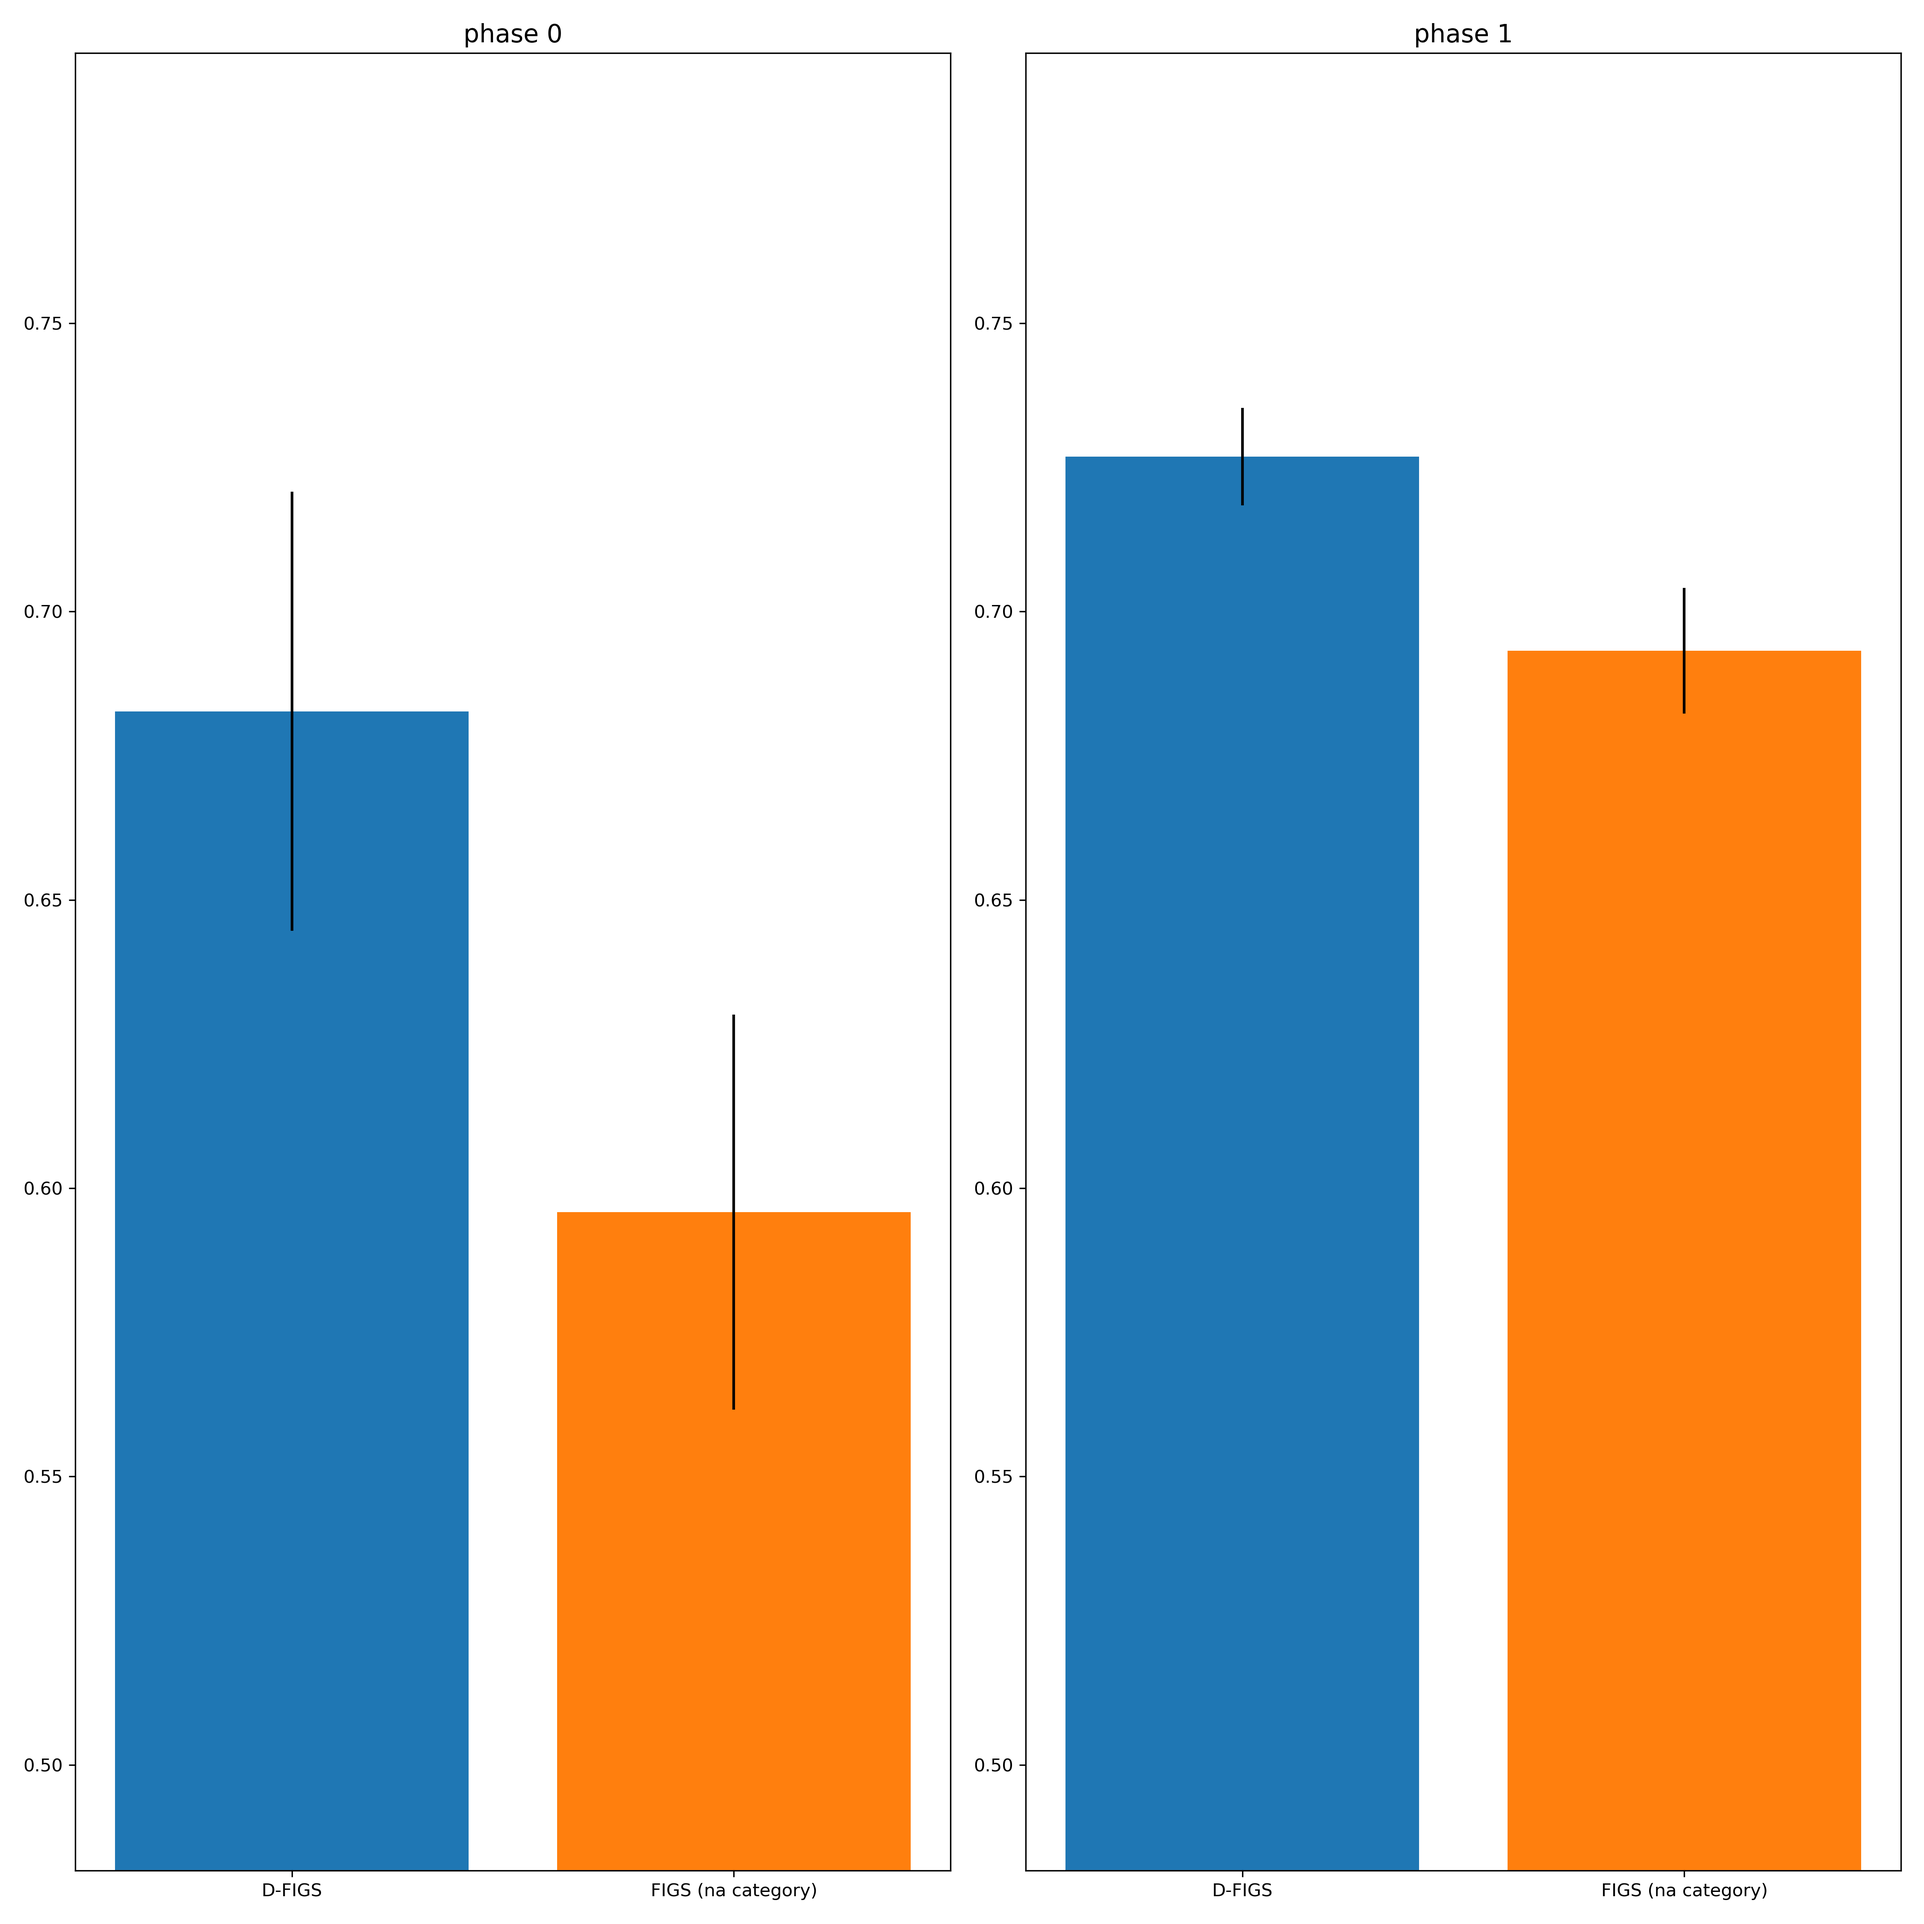
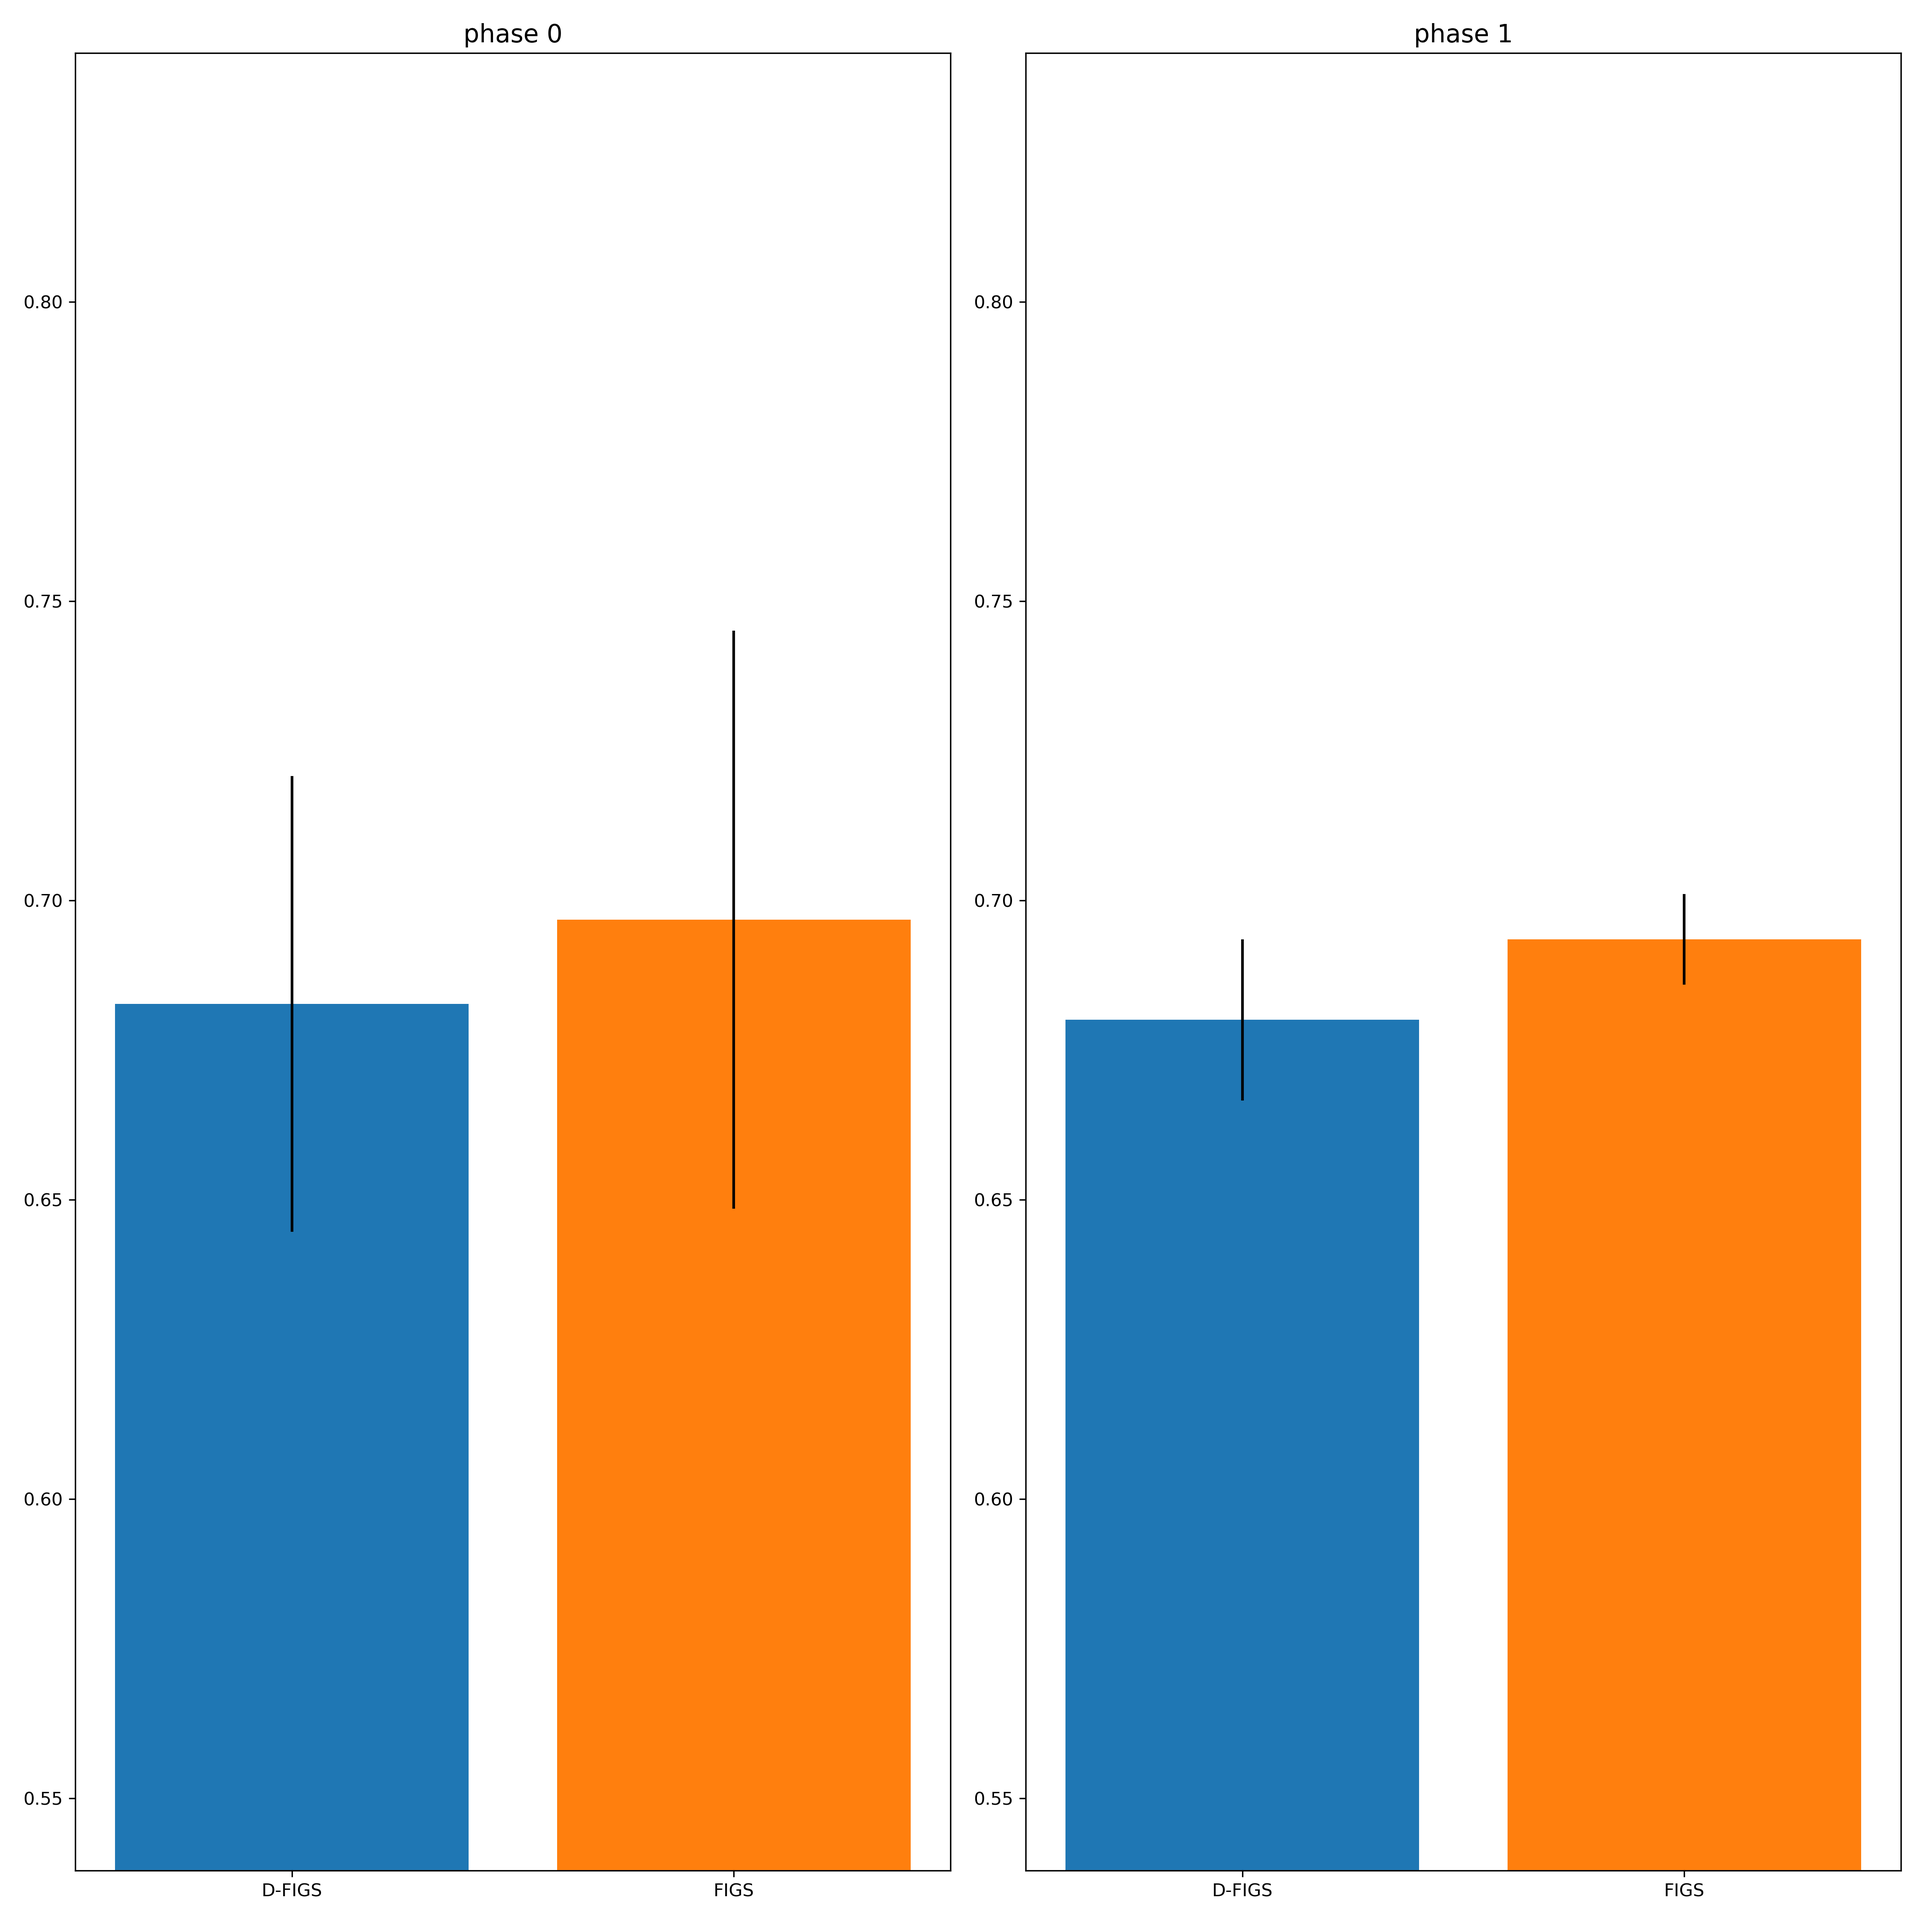
meeting 9.11

diff --git a/rulevetting/projects/backcompat_analysis.py b/rulevetting/projects/backcompat_analysis.py
@@ -1,0 +1,97 @@
+import argparse
+import copy
+import os.path
+from typing import Tuple
+
+import numpy as np
+import pandas as pd
+from imodels import FIGSClassifier
+from imodels.tree.dfigs import D_FIGSClassifier
+
+from rulevetting.projects.dynamic_cdi_utils import get_phase_idx, get_phase_indices
+from sklearn.model_selection import train_test_split
+
+def parse_args():
+    # add dataset argument
+    parser = argparse.ArgumentParser()
+    parser.add_argument("--dataset", type=str, default="iai_pecarn")
+    args = parser.parse_args()
+    return args
+
+
+args = parse_args()
+DS = args.dataset
+
+if DS == "tbi_pecarn":
+    from rulevetting.projects.tbi_pecarn.dynamic_cdi import get_phases
+    from rulevetting.projects.tbi_pecarn.dataset import Dataset
+elif DS == "csi_pecarn":
+    from rulevetting.projects.csi_pecarn.dynamic_cdi import get_phases
+    from rulevetting.projects.csi_pecarn.dataset1 import Dataset
+elif DS == "iai_pecarn":
+    from rulevetting.projects.iai_pecarn.dynamic_cdi import get_phases
+    from rulevetting.projects.iai_pecarn.dataset import Dataset
+
+def get_dataset(impute: bool, permute_phase: bool) -> Tuple[pd.DataFrame, pd.Series]:
+    """Get processed tbi data
+
+    Args:
+        impute (bool): if true missing values are imputed with mode
+        permute_phase (bool): if true the phases are permutred
+
+    Returns:
+        Tuple[pd.DataFrame, pd.Series]: X, y
+
+    """
+    data_train, data_tune, data_test = Dataset().get_data()
+    # join three splits
+    data = pd.concat([data_train, data_tune, data_test])
+    # separate outcome
+    y = data['outcome']
+    # drop outcome
+    X = data.drop(columns=['outcome'])
+    phases = get_phases(X.columns, permute_phases=permute_phase)
+
+    last_phase = np.array(phases[np.max(list(phases.keys()))])
+    # select last_phase columns in X
+    X = X.iloc[:, last_phase]
+    phases = get_phases(X.columns, permute_phases=permute_phase)
+    idx_first = get_phase_indices(X, phases[np.min(list(phases.keys()))])
+    X, y = X.loc[idx_first, :], y[idx_first]
+    # now impute missing values with mode
+    if impute:
+        X = X.fillna(X.mode().iloc[0])
+    return X, y
+
+def main():
+    results_dir = os.path.join("results", "backcompat", DS)
+    if not os.path.exists(results_dir):
+        os.makedirs(results_dir)
+    X, y = get_dataset(impute=False, permute_phase=False)
+    phases = get_phases(X.columns, permute_phases=False)
+    d_figs = D_FIGSClassifier(phases=copy.deepcopy(phases), max_rules=2, max_trees=1)
+
+    # make train and test splits
+    X_train, X_test, y_train, y_test = train_test_split(X, y, test_size=0.2, random_state=123)
+
+    # fit model
+    d_figs.fit(X_train.values, y_train)
+    # plot the model and save it
+    d_figs.plot(dpi=300, filename=os.path.join(results_dir, "dfigs.png"), feature_names=X.columns)
+
+    phases_idx_test = get_phase_idx(X_test, phases)
+    for phase, idx, in phases_idx_test.items():
+        if np.var(y_test[idx]) == 0:
+            continue
+        X_train_phase, X_test_phase = X_train.iloc[:, phases[phase]], X_test.iloc[:, phases[phase]]
+        na_idx_train, na_idx_test = X_train_phase.dropna().index, X_test_phase.dropna().index
+        X_train_phase, X_test_phase = X_train_phase.loc[na_idx_train, :], X_test_phase.loc[na_idx_test, :]
+        y_train_phase, y_test_phase = y_train[na_idx_train], y_test[na_idx_test]
+        figs = FIGSClassifier(max_rules=6, max_trees=1)
+        figs.fit(X_train_phase.values, y_train_phase)
+        figs.plot(dpi=300, filename=os.path.join(results_dir, f"figs_{phase}.png"), feature_names=X_train_phase.columns)
+
+
+if __name__ == '__main__':
+    main()
+

diff --git a/rulevetting/projects/dynamic_cdi_utils.py b/rulevetting/projects/dynamic_cdi_utils.py
@@ -286,7 +286,7 @@ def run_sim(n_seeds, results_dir, max_rules=12, permute_phase=False, max_trees =
     phases = get_phases(X.columns, permute_phases=permute_phase)
     performance = {"dfigs": [], "figs_na": [], "figs_imputed": [], "figs": []}
     performance_per_phase = {"dfigs" : {i:[] for i in range(len(phases))},
-                             "figs_na": {i:[] for i in range(len(phases))}}
+                             "figs": {i:[] for i in range(len(phases))}}
     for seed in range(n_seeds):
         X_na = add_na_dummy(X)
 
@@ -320,29 +320,31 @@ def run_sim(n_seeds, results_dir, max_rules=12, permute_phase=False, max_trees =
         for phase, idx, in phases_idx_test.items():
             if np.var(y_test[idx]) == 0:
                 continue
+            X_train_phase, X_test_phase = X_train.iloc[:, phases[phase]], X_test.iloc[:, phases[phase]]
+            na_idx_train, na_idx_test = X_train_phase.dropna().index, X_test_phase.dropna().index
+            X_train_phase, X_test_phase = X_train_phase.loc[na_idx_train, :], X_test_phase.loc[na_idx_test, :]
+            y_train_phase, y_test_phase = y_train[na_idx_train], y_test[na_idx_test]
             performance_per_phase["dfigs"][phase].append(get_auc_score(d_figs, X_train, X_test, y_train, y_test, idx=idx))
-            performance_per_phase["figs_na"][phase].append(get_auc_score(figs_na, X_na_train, X_na_test, y_train, y_test, idx=idx))
+            performance_per_phase["figs"][phase].append(get_auc_score(figs, X_train_phase, X_test_phase, y_train_phase, y_test_phase, idx=idx))
 
     fig, axs = plt.subplots(1, len(phases), figsize=(15, 15))
     max_auc = -1 * np.inf
     min_auc = np.inf
     for i, phase in phases.items():
         # do two bar plots one next to the other for dfigs and figs_na
-        axs[i].bar([f"D-{method}", f"{method} (na category)"], [np.mean(performance_per_phase["dfigs"][i]), np.mean(performance_per_phase["figs_na"][i])],
-        yerr=[np.std(performance_per_phase["dfigs"][i]) / np.sqrt(n_seeds), np.std(performance_per_phase["figs_na"][i]) / np.sqrt(n_seeds)],
+        axs[i].bar([f"D-{method}", f"{method}"], [np.mean(performance_per_phase["dfigs"][i]), np.mean(performance_per_phase["figs"][i])],
+        yerr=[np.std(performance_per_phase["dfigs"][i]) / np.sqrt(n_seeds), np.std(performance_per_phase["figs"][i]) / np.sqrt(n_seeds)],
                      color=["#1f77b4", "#ff7f0e"])
         axs[i].set_title(f"phase {i}")
         # update max and min auc
-        max_std_phase = 3 * np.max([np.std(performance_per_phase["dfigs"][i]) / np.sqrt(n_seeds), np.std(performance_per_phase["figs_na"][i]) / np.sqrt(n_seeds)])
-        max_auc_phase = np.max([np.mean(performance_per_phase["dfigs"][i]), np.mean(performance_per_phase["figs_na"][i])])
-        min_auc_phase = np.min([np.mean(performance_per_phase["dfigs"][i]), np.mean(performance_per_phase["figs_na"][i])])
+        max_std_phase = 3 * np.max([np.std(performance_per_phase["dfigs"][i]) / np.sqrt(n_seeds), np.std(performance_per_phase["figs"][i]) / np.sqrt(n_seeds)])
+        max_auc_phase = np.max([np.mean(performance_per_phase["dfigs"][i]), np.mean(performance_per_phase["figs"][i])])
+        min_auc_phase = np.min([np.mean(performance_per_phase["dfigs"][i]), np.mean(performance_per_phase["figs"][i])])
         max_auc = max(max_auc, max_auc_phase + max_std_phase)
         min_auc = min(min_auc, min_auc_phase - max_std_phase)
     for i in range(len(phases)):
         axs[i].set_ylim(min_auc, max_auc)
 
-
-    # tight layout
     plt.tight_layout()
     plt.savefig(os.path.join(results_dir, "bar_plot_figs_per_phase.png"), dpi=300)
     plt.close()
